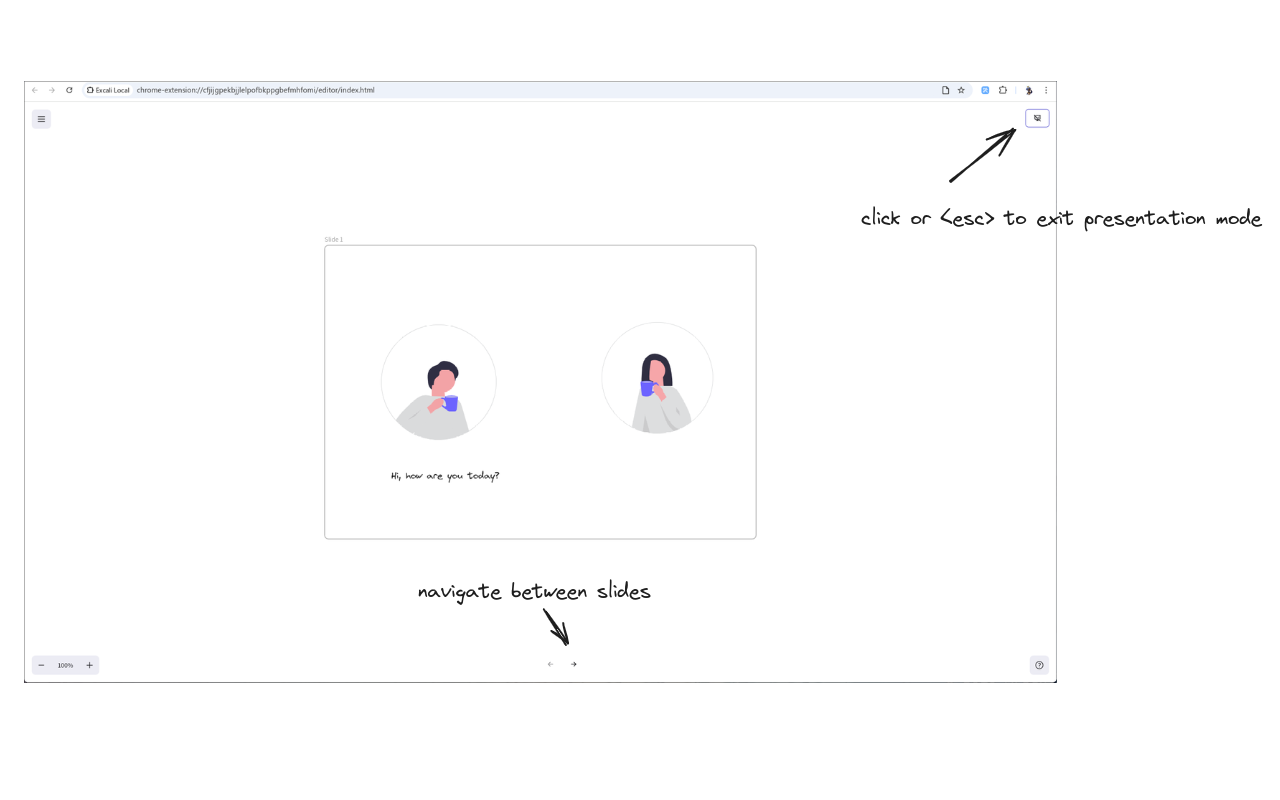
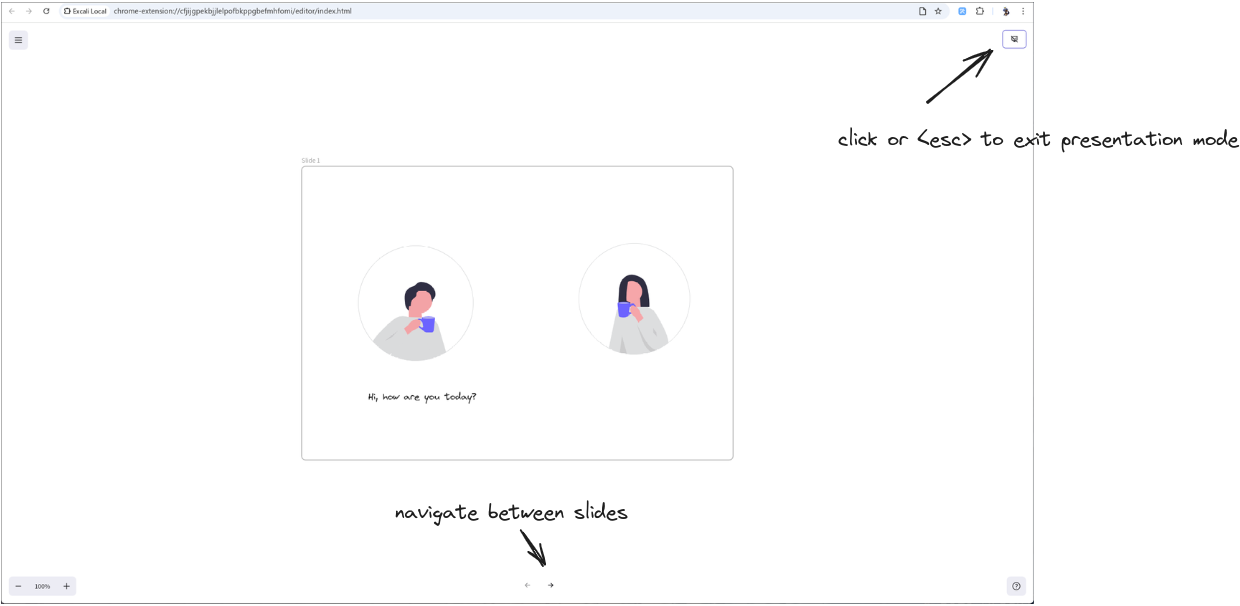
chore: update readme

diff --git a/README.md b/README.md
@@ -35,27 +35,29 @@ Demo: [YouTube](https://youtu.be/_aHWUz9Og-I) | [Bilibili](https://www.bilibili.
 
 1. **Screenshot & annotate** — capture a full page or select an area, then annotate directly in Excalidraw.
 
-| | |
+| Capture a full page | Select an area |
 |:-:|:-:|
 | <img src="./.assets/capture-tab.png" width="480px" /> | <img src="./.assets/select-area.png" width="480px" /> |
 
 2. **Edit & organize locally** — every drawing lives in your browser (IndexedDB). Group drawings into collections, search them, and export or import everything as a ZIP archive.
 
-| | |
+| Empty gallery sidebar | Gallery with a drawing |
 |:-:|:-:|
 | <img src="./.assets/gallery-sidebar-empty.png" width="480px" /> | <img src="./.assets/gallery-with-drawing.png" width="480px" /> |
 
 3. **Present** — turn drawings into slide presentations with simple navigation.
 
-| |
-|:-:|
-| <img src="./.assets/presentation-mode.png" width="600px" /> |
+<img src="./.assets/presentation-mode.png" />
 
 4. **Personalize** — upload your own fonts or use system font families (`.ttf`, `.woff`, `.woff2`).
-   <img src="./.assets/FontFamily-Customization.png" width="600px" />
-5. **Open `.excalidraw` files** — recognized files get an “Open with Excali Local” button that imports them instantly.
-   <video src="https://github.com/user-attachments/assets/3be7b273-cac4-4fc8-ab03-5bb50eab8cd4" width="600px" autoplay loop muted></video>
-6. **Drive the canvas from an agent or CLI** — enable agent access in the extension, install the Skill (`npx skills add azzgo/excali-local --skill excali-draw -y`), and draw programmatically over the local WebSocket bridge. Full guide: [Agent Bridge Guide](docs/AGENT_BRIDGE.md).
+
+<img src="./.assets/FontFamily-Customization.png" />
+
+6. **Open `.excalidraw` files** — recognized files get an “Open with Excali Local” button that imports them instantly.
+
+<video src="https://github.com/user-attachments/assets/3be7b273-cac4-4fc8-ab03-5bb50eab8cd4" autoplay loop muted></video>
+
+7. **Drive the canvas from an agent or CLI** — enable agent access in the extension, install the Skill (`npx skills add azzgo/excali-local --skill excali-draw -y`), and draw programmatically over the local WebSocket bridge. Full guide: [Agent Bridge Guide](docs/AGENT_BRIDGE.md).
 
 ## Development
 
@@ -72,3 +74,4 @@ pnpm local:tar      # archive build assets
 ---
 
 *Screenshots from [unDraw](https://undraw.co/) — free illustrations for everyone.*
+
